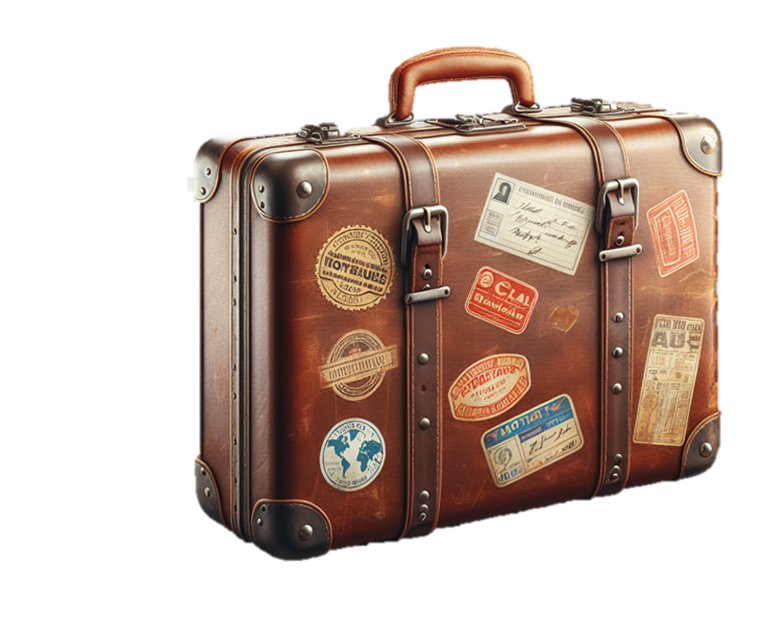
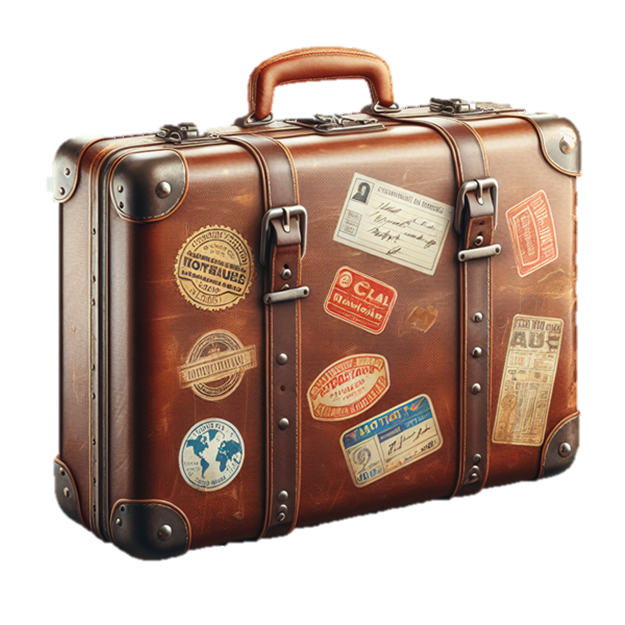
Make homepage responsive

diff --git a/src/scss/pages/_home.scss b/src/scss/pages/_home.scss
@@ -3,8 +3,6 @@
 // =========================================================
 @use '../abstracts' as *;
 
-// BELOW TO VIEW PX - EM CONVERSION AND GENERALLY
-
 // ---- Section helpers ------------------------------------
 .section {
     padding: 5% 10% 2% 10%;
@@ -24,6 +22,16 @@
         color: $color-gray-text;
         font-size: 1.2em;
     }
+
+    @media (max-width: $breakpoint-sm) {
+        &__title {
+            font-size: 2em;
+        }
+
+        &__sub {
+            font-size: 1em;
+        }
+    }
 }
 
 // ---- Grid -----------------------------------------------
@@ -39,7 +47,7 @@
         grid-template-columns: repeat(3, 1fr);
     }
 
-    @media (max-width: 1100px) {
+    @media (max-width: $breakpoint-lg) {
         &--4 {
             grid-template-columns: repeat(2, 1fr);
         }
@@ -48,7 +56,7 @@
         }
     }
 
-    @media (max-width: 600px) {
+    @media (max-width: $breakpoint-md) {
         &--4,
         &--3 {
             grid-template-columns: 1fr;
@@ -61,7 +69,7 @@
     display: grid;
     grid-template-columns: 1fr 1fr;
     align-items: center;
-    gap: 48px;
+    gap: 70px;
     padding: 10% 10%;
     background: $color-gray-bg;
     overflow: hidden;
@@ -99,16 +107,47 @@
         }
     }
 
-    @media (max-width: $breakpoint-md) {
+    @media (max-width: $breakpoint-lg) {
         grid-template-columns: 1fr;
-        padding: 48px 5%;
+        text-align: center;
+        place-items: center;
+        gap: 40px;
 
-        &__content {
-            text-align: center;
+        &__title {
+            font-size: 2.8em;
+        }
+
+        &__image {
+            margin-top: 32px;
+        }
+    }
+
+    @media (max-width: $breakpoint-md) {
+        gap: 20px;
+
+        &__title {
+            font-size: 2em;
+        }
+
+        &__img-wrap {
+            max-width: 480px;
+        }
+    }
+
+    @media (max-width: $breakpoint-sm) {
+        padding: 18% 18%;
+        gap: 5px;
+
+        &__title {
+            font-size: 1.5em;
         }
 
         &__text {
-            margin: 0 auto 32px;
+            font-size: 0.9em;
+        }
+
+        &__img-wrap {
+            max-width: 280px;
         }
     }
 }
@@ -150,9 +189,7 @@
         overflow: hidden;
 
         img {
-            width: 100%;
-            height: 100%;
-            object-fit: cover;
+            @include img-cover;
             filter: brightness(.65);
         }
 
@@ -184,11 +221,31 @@
         }
     }
 
-    @media (max-width: $breakpoint-md) {
-        grid-template-columns: 1fr;
+    @media (max-width: $breakpoint-lg) {
+        &__grid {
+            grid-template-columns: 1fr;
+        }
 
+        &__promo .promo__overlay {
+            padding: 10% 12%;
+        }
+    }
+
+    @media (max-width: $breakpoint-md) {
         &__promo {
-            min-height: 280px;
+            min-height: 500px;
+
+            .promo__label {
+                font-size: 2.3em;
+            }
+        }
+    }
+
+    @media (max-width: $breakpoint-sm) {
+        &__promo {
+            .promo__label {
+                font-size: 1.8em;
+            }
         }
     }
 }
@@ -198,7 +255,7 @@
         display: flex;
         flex-direction: row;
         align-items: center;
-        gap: 2rem;
+        gap: 2.3em;
     }
 
     &__quote {
@@ -213,6 +270,18 @@
         font-size: 1.1em;
         color: $color-gray-text;
         line-height: 1.7;
+    }
+
+    @media (max-width: $breakpoint-md) {
+        &__quote {
+            font-size: 2em;
+        }
+    }
+
+    @media (max-width: $breakpoint-sm) {
+        &__quote {
+            font-size: 1.5em;
+        }
     }
 }
 
@@ -239,6 +308,16 @@
         font-weight: 400;
         font-size: 1.2em;
         margin-top: -4px;
+    }
+
+    @media (max-width: $breakpoint-sm) {
+        &__name {
+            font-size: 1.2em;
+        }
+
+        &__title {
+            font-size: 1em;
+        }
     }
 }
 
@@ -267,6 +346,7 @@
         display: flex;
         align-items: center;
         justify-content: space-between;
+        flex-direction: row;
         max-width: 1300px;
         margin: 0 auto;
     }
@@ -311,11 +391,51 @@
         }
     }
 
-    @media (max-width: 600px) {
+    @media (max-width: $breakpoint-xl) {
         &__content {
             flex-direction: column;
-            gap: 24px;
+            gap: 32px;
             text-align: center;
+        }
+    }
+
+    @media (max-width: $breakpoint-md) {
+        &__percent {
+            font-size: 9em;
+        }
+
+        &__info {
+            font-size: 1em;
+        };
+
+        &__text {
+            p:nth-child(1) {
+                font-size: 2em;
+            }
+
+            p:nth-child(2) {
+                font-size: 1em;
+            }
+        }
+    }
+
+    @media (max-width: $breakpoint-sm) {
+        &__percent {
+            font-size: 6em;
+        }
+
+        &_info {
+            font-size: 0.8em;
+        }
+
+        &__text {
+            p:nth-child(1) {
+                font-size: 1.5em;
+            }
+
+            p:nth-child(2) {
+                font-size: 0.8em;
+            }
         }
     }
 }
@@ -362,6 +482,18 @@
         font-size: 0.9em;
         color: $color-white;
         line-height: 1.6;
+    }
+}
+
+@media (max-width: $breakpoint-lg) {
+    .benefits__grid {
+        grid-template-columns: repeat(2, 1fr);
+    }
+}
+
+@media (max-width: $breakpoint-md) {
+    .benefits__grid {
+        grid-template-columns: 1fr;
     }
 }
 

diff --git a/src/index.html b/src/index.html
@@ -69,7 +69,7 @@
         <!-- ===== HERO ===== -->
         <section class="hero">
             <div class="hero__content">
-                <h1 class="hero__title">Smart Styles for<br />Every Destination</h1>
+                <p class="hero__title">Smart Styles for<br />Every Destination</p>
                 <p class="hero__text">Phasellus risus turpis, pretium sit amet magna non, molestie ultrices enim. Nullam pulvinar felis at metus.</p>
                 <a href="html/catalog.html" class="btn btn--primary" id="heroBtn">View All Items</a>
             </div>
@@ -93,7 +93,7 @@
                             <p class="cmo__title">Chief Marketing Officer</p>
                         </div>
                     </div>
-                    <h2 class="bio__quote">Aliquam Faucibus Odionecom.</h2>
+                    <p class="bio__quote">Aliquam Faucibus Odionecom.</p>
                     <p class="bio__body">Duis vestibulum elit vel neque pharetra vulputate. Quisque condimentum nisi urna. Duis rutrum non risus in imperdiet. Proin molestie accumsan nulla sit.</p>
                     <p class="bio__body">Namque duis vestibulum elit vel neque pharetra vulputate. Quisque condimentum nisi urna.</p>
                 </div>

diff --git a/src/scss/layouts/footer.scss b/src/scss/layouts/footer.scss
@@ -54,12 +54,6 @@
     &__shipping {
         h4 {
             font-weight: 700;
-
-            // BELOW TO VIEW PX - EM CONVERSION
-            // MAYBE DONT USE HEADINGS, INSTEAD USE PARAGRAPHS WITH NTH-CHILD SELECTORS
-
-
-            font-size: 14px;
             margin-bottom: 10px;
         }
 
@@ -90,5 +84,21 @@
         color: $color-primary;
         flex-shrink: 0;
         margin-top: 2px;
+    }
+}
+
+@media (max-width: $breakpoint-lg) {
+    .footer {
+        &__top {
+            grid-template-columns: 1fr 1fr;
+        }
+
+        &__col--contact {
+            grid-column: 1 / -1;
+        }
+        
+        &__contact-grid {
+            grid-template-columns: 1fr;
+        }
     }
 }

diff --git a/src/scss/abstracts/_variables.scss b/src/scss/abstracts/_variables.scss
@@ -17,7 +17,7 @@ $color-gray-border: #E9E9ED;
 $font-montserrat: 'Montserrat', sans-serif;
 
 // ---- Breakpoints ----------------------------------------
-$breakpoint-sm: 320px;
+$breakpoint-sm: 425px;
 $breakpoint-md: 768px;
 $breakpoint-lg: 1024px;
 $breakpoint-xl: 1440px;
